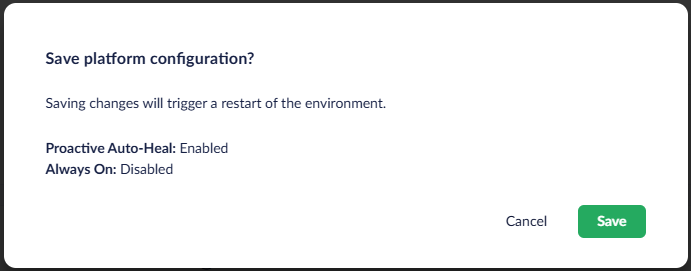
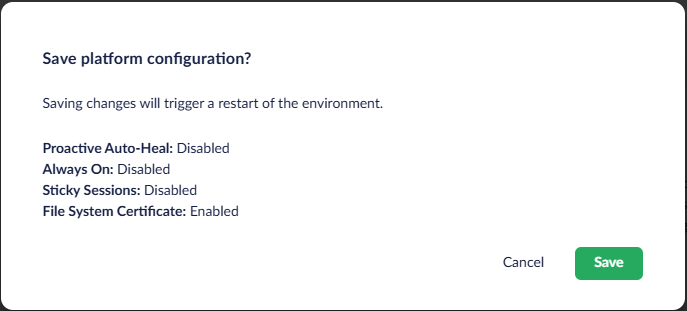
docs(cloud): update platform configuration screenshots and alt text

diff --git a/umbraco-cloud/build-and-customize-your-solution/set-up-your-project/project-settings/platform-configuration.md b/umbraco-cloud/build-and-customize-your-solution/set-up-your-project/project-settings/platform-configuration.md
@@ -114,15 +114,15 @@ To update the Platform Configuration for your project:
 3. Locate the **Platform Configuration** section.
 4. Select the environment you want to update.
 
-<figure><img src="../../../.gitbook/assets/platform-configuration-toggles.png" alt="Platform Configuration toggles in Advanced Configuration"><figcaption><p>Platform Configuration toggles</p></figcaption></figure>
+<figure><img src="../../../.gitbook/assets/platform-configuration-toggles.png" alt="Platform Configuration section for the Live environment with toggles for Proactive Auto-Heal, Always On, Sticky Sessions, and File System Certificate"><figcaption><p>Platform Configuration toggles</p></figcaption></figure>
 
 5. Toggle the settings to the desired state.
 6. Select **Save** to apply the changes.
    * Select **Cancel** to discard the changes.
-7. On the confirmation dialog, review the settings you changed and select **Save** to confirm. The environment restarts to apply the new settings.
+7. On the confirmation dialog, review the new values and select **Save** to confirm. The environment restarts to apply the new settings.
    * Select **Cancel** to keep the environment running and discard the pending changes.
 
-<figure><img src="../../../.gitbook/assets/platform-configuration-dialog.png" alt="Platform Configuration confirmation dialog"><figcaption><p>Platform Configuration confirmation dialog</p></figcaption></figure>
+<figure><img src="../../../.gitbook/assets/platform-configuration-dialog.png" alt="Save platform configuration dialog listing the new value of each setting and warning that the environment restarts"><figcaption><p>Platform Configuration confirmation dialog</p></figcaption></figure>
 
 {% hint style="warning" %}
 Saving changes to Platform Configuration restarts the environment. Selecting **Cancel** on the dialog or the **Cancel** button below the toggles reverts any pending changes.
